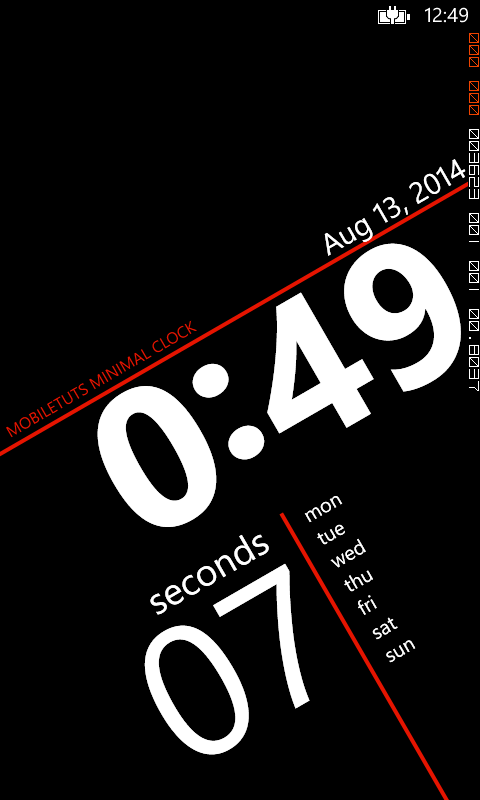
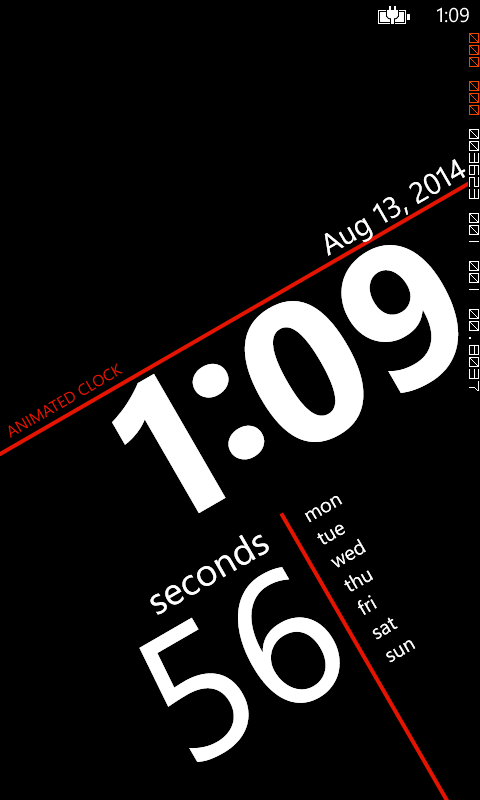
Updated

diff --git a/MinimalClock/MainPage.xaml b/MinimalClock/MainPage.xaml
@@ -107,7 +107,7 @@
 			</Canvas>
 			<Rectangle x:Name="HorizontalSeparator" Height="4" Canvas.Left="-28" Canvas.Top="295" Width="620" Fill="{StaticResource PhoneAccentBrush}"/>
 			<Rectangle x:Name="VerticalSeparator" Fill="{StaticResource PhoneAccentBrush}" Height="369" Canvas.Left="213" Canvas.Top="489" Width="4"/>
-			<TextBlock x:Name="ApplicationTitle" TextWrapping="Wrap" Text="MOBILETUTS MINIMAL CLOCK" Canvas.Top="271" Foreground="{StaticResource PhoneAccentBrush}" FontSize="16" Canvas.Left="18"/>
+			<TextBlock x:Name="ApplicationTitle" TextWrapping="Wrap" Text="ANIMATED CLOCK" Canvas.Top="271" Foreground="{StaticResource PhoneAccentBrush}" FontSize="16" Canvas.Left="18"/>
 			<TextBlock x:Name="SecondsLabel" Height="36" Canvas.Left="23" TextWrapping="Wrap" Text="seconds" Canvas.Top="475" Width="166" TextAlignment="Right" Style="{StaticResource SmallTextStyle}" Margin="0"/>
 			<TextBlock x:Name="TimeSeconds" Height="205" Canvas.Left="3" TextWrapping="Wrap" Text="59" Canvas.Top="464" Width="210" FontSize="186.667" RenderTransformOrigin="0.5,0.5" Opacity="0">
 				<TextBlock.RenderTransform>

diff --git a/MinimalClock/obj/Debug/MainPage.g.cs b/MinimalClock/obj/Debug/MainPage.g.cs
@@ -1,4 +1,4 @@
-#pragma checksum "C:\Users\nitesi\Documents\Visual Studio 2013\Projects\MinimalClock\MinimalClock\MainPage.xaml" "{406ea660-64cf-4c82-b6f0-42d48172a799}" "51B71AF5A38D6A495C7EF7E994D2A471"
+#pragma checksum "C:\Users\nitesi\Documents\Visual Studio 2013\Projects\MinimalClock\MinimalClock\MainPage.xaml" "{406ea660-64cf-4c82-b6f0-42d48172a799}" "E40BD1993AA9605C010700A67AF748B7"
 //------------------------------------------------------------------------------
 // <auto-generated>
 //     This code was generated by a tool.
